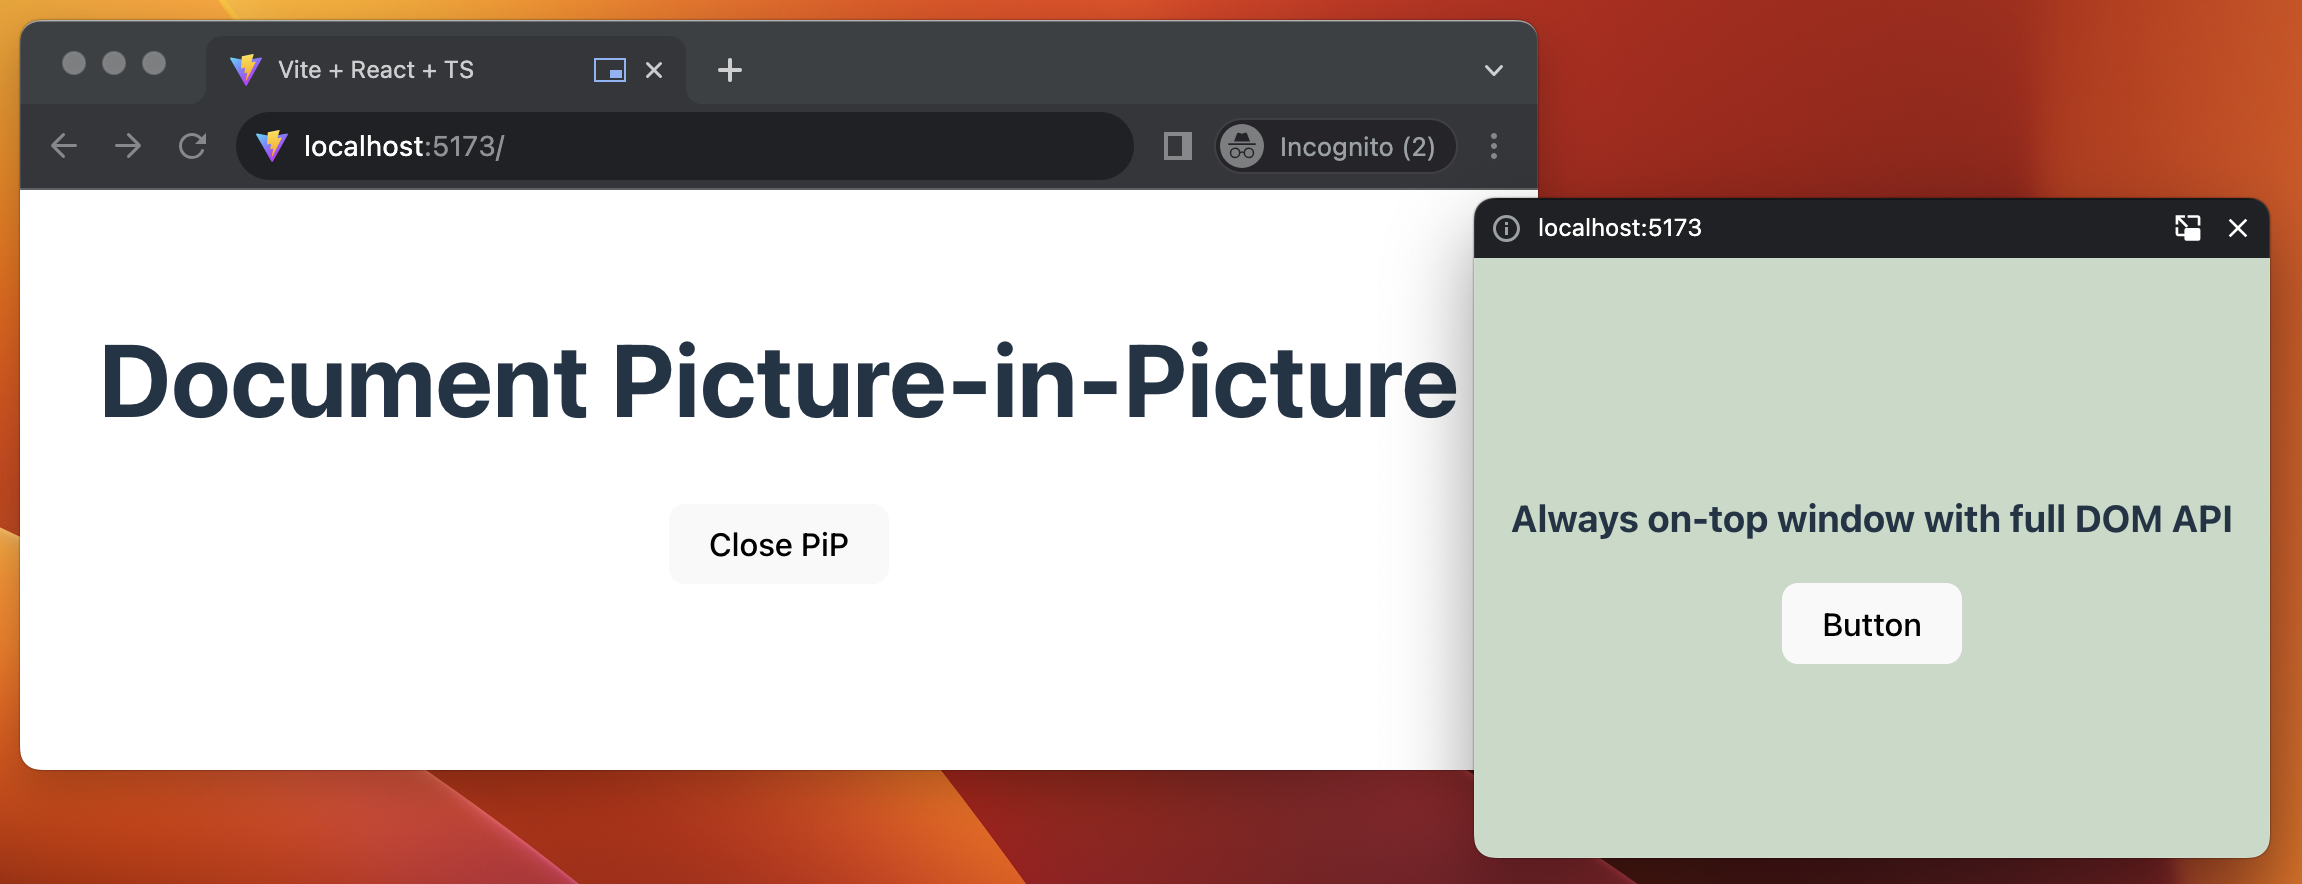
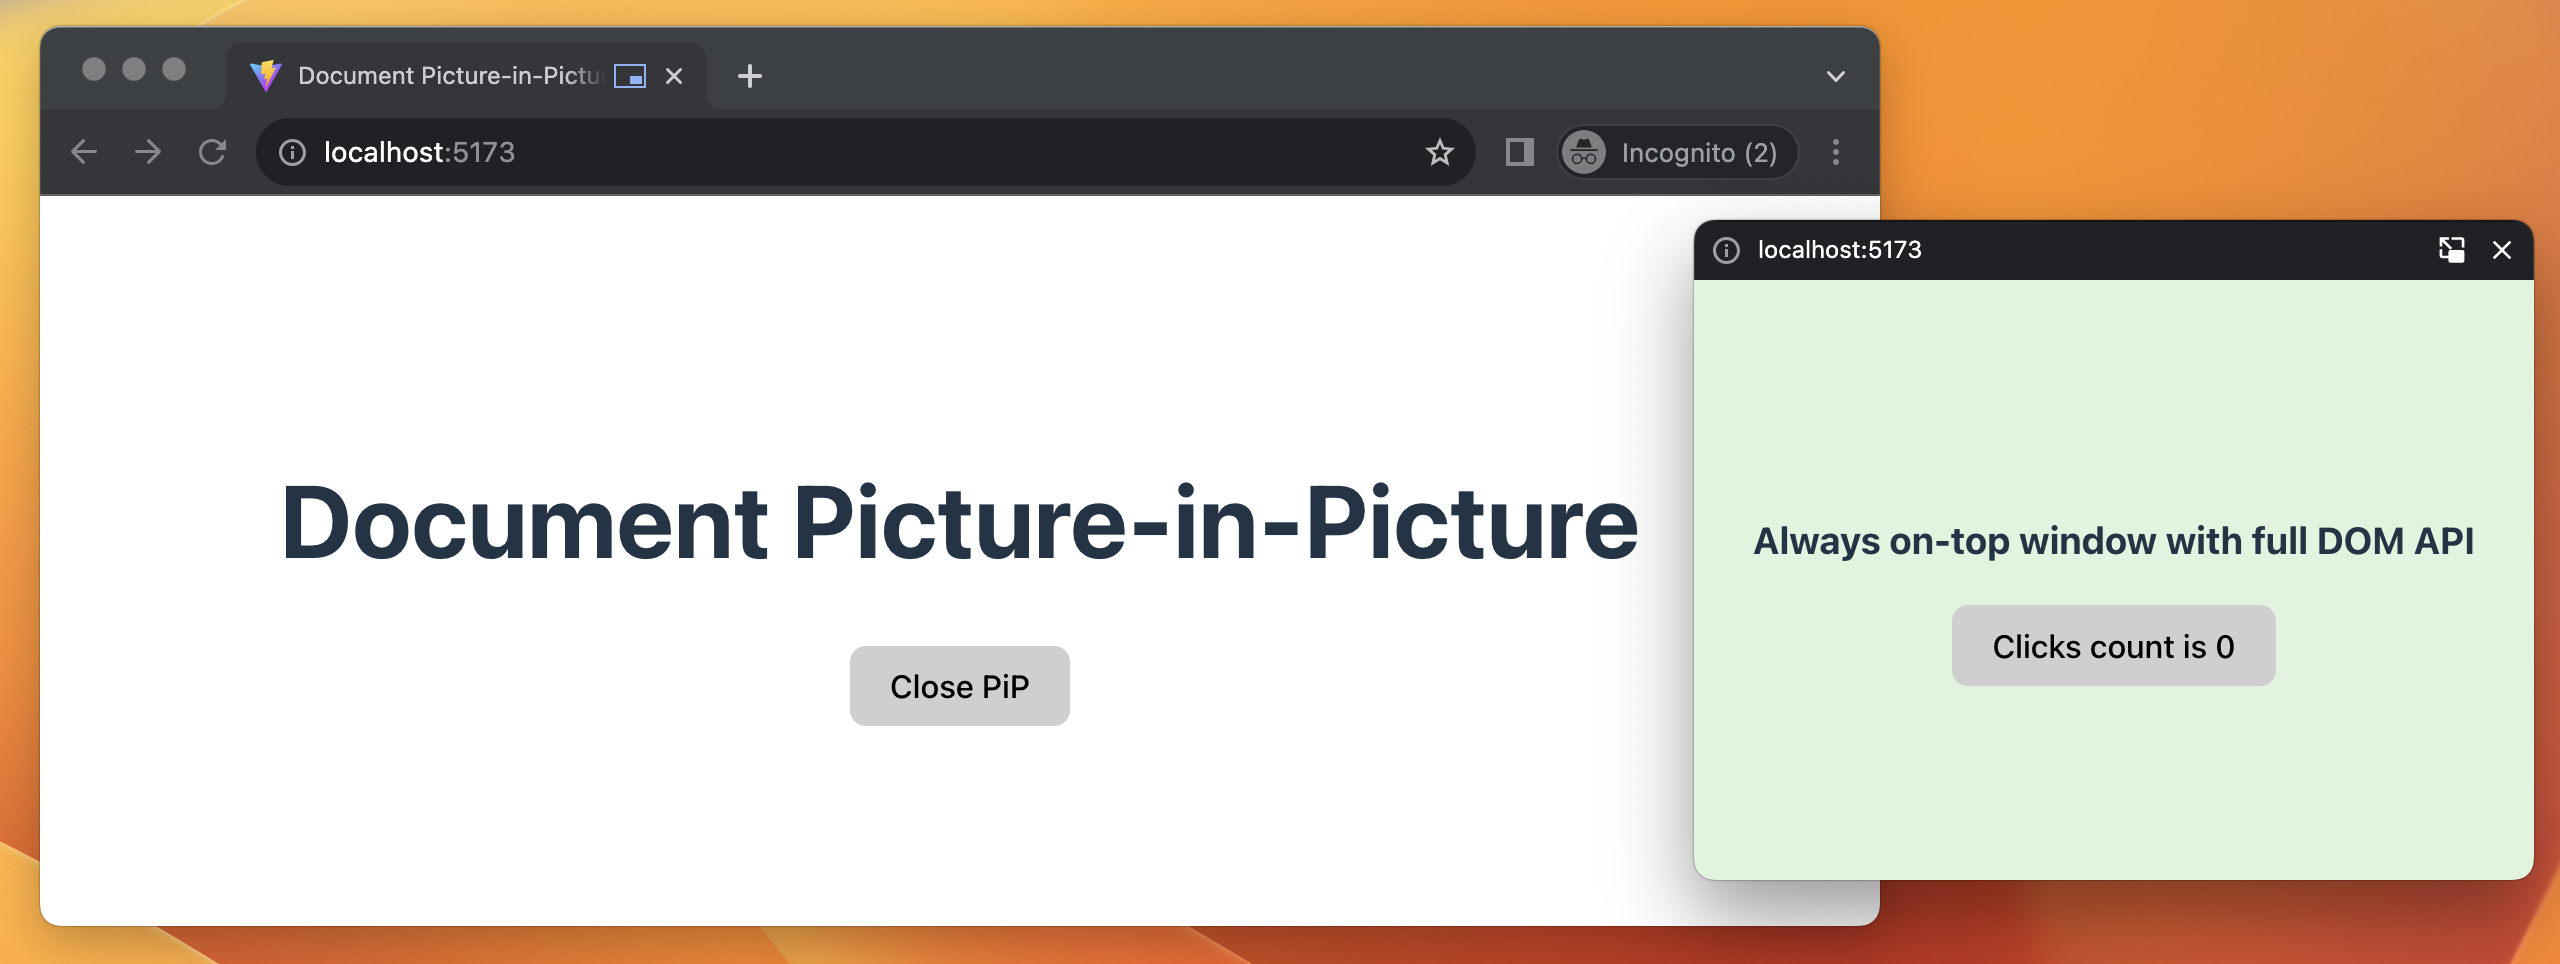
Small improvements + dynamic example

diff --git a/articles/pip/README.md b/articles/pip/README.md
@@ -38,6 +38,12 @@ const pipWindow = await documentPictureInPicture.requestWindow({
 pipWindow.document.body.innerHTML = 'Hello from PiP';
 ```
 
+**NOTE:** It is important to note that you can only open this window in response to use interaction ([User Activation](https://developer.mozilla.org/en-US/docs/Web/API/UserActivation)); otherwise, you will get this error
+
+```
+DOMException: Failed to execute 'requestWindow' on 'DocumentPictureInPicture': Document PiP requires user activation
+```
+
 ### 2. Closing
 
 You can listen to the `pagehide` event to detect when the PiP window is closing. For example, in case a user decides to close the PiP window.
@@ -214,6 +220,8 @@ function Example() {
     requestPipWindow(500, 500);
   }, [requestPipWindow]);
 
+  const [count, setCount] = useState(0);
+
   return (
     <div>
       {/* Make sure to have some fallback in case if API is not supported */}
@@ -231,6 +239,13 @@ function Example() {
                 }}
               >
                 <h3>Hello in PiP!</h3>
+                <button
+                  onClick={() => {
+                    setCount((count) => count + 1);
+                  }}
+                >
+                  Clicks count is {count}
+                </button>
               </div>
             </PiPWindow>
           )}
@@ -259,4 +274,4 @@ Demo with dynamic component example: ![image](./imgs/demo.png)
 
 Document Picture-in-Picture is an excellent addition to the available APIs browsers provide. It opens new UX possibilities for different domains of apps, such as video conferencing, productivity, and more. 
 
-In this article, I've shown how this API can be integrated with modern React using standard Context and Portal API.
+In this article, I've shown how this API can be integrated with modern React using standard Context and Portal API. I've omitted the error handling part for clarity, but this should be trivial to implement.
